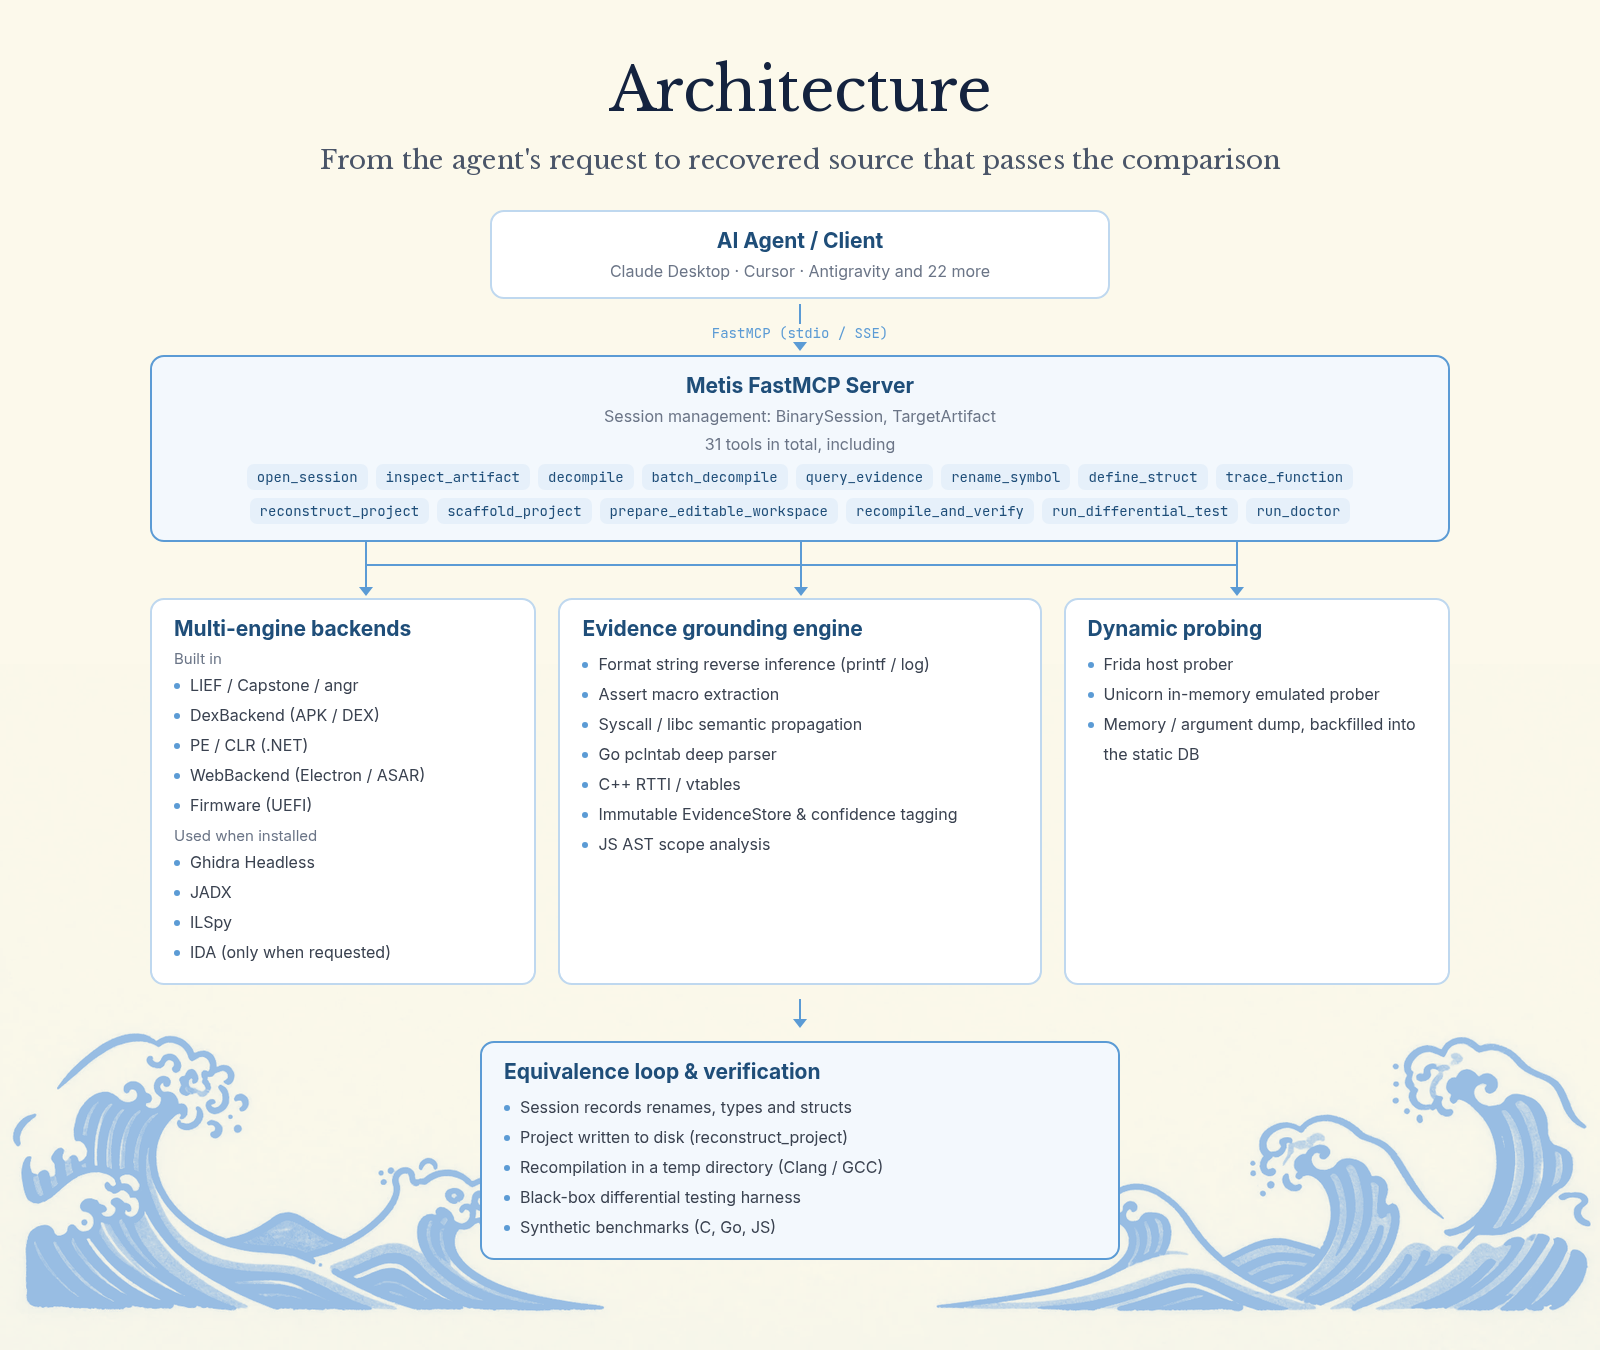
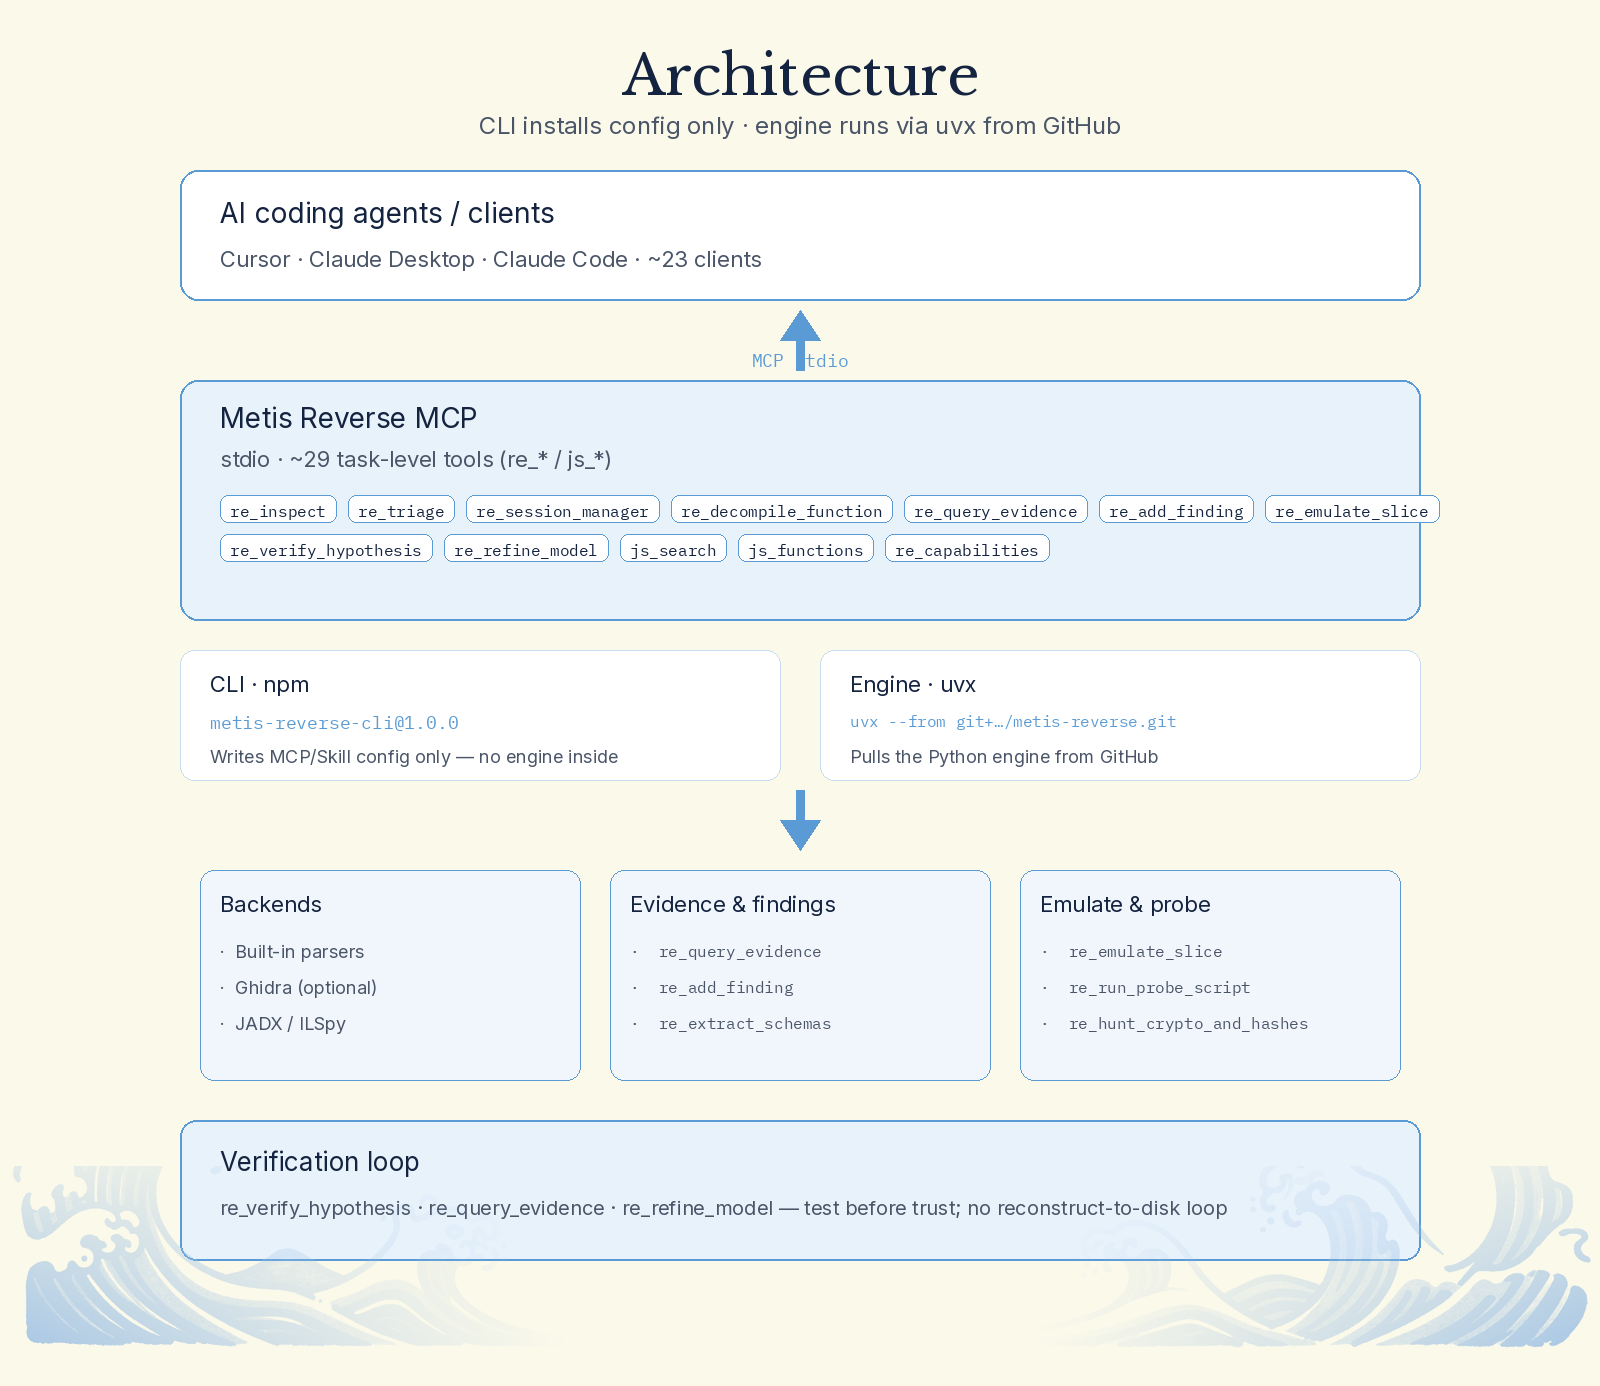
docs: refresh README images for MCP v1.0.0 tool surface
Replace stale reconstruct/FastMCP/31 artwork with CLI≠engine,
uvx GitHub engine, and ~29 re_*/js_* cards; soften demo + tools copy.

diff --git a/README.md b/README.md
@@ -115,7 +115,7 @@ Then point MCP `command` at that environment’s `metis-reverse`, or keep using 
 
 </details>
 
-**2. Try it.** Build the bundled demo (if present), then ask your agent to inspect it with the `re_*` / `js_*` tools.
+**2. Try it.** Build the bundled `demo`, then ask your agent to inspect it with the `re_*` / `js_*` tools.
 
 ```bash
 cd demo && make
@@ -166,7 +166,7 @@ cd demo && make
 
 <p align="center"><img src="docs/images/readme/en/sections/tools.png" alt="MCP Tools" width="100%"></p>
 
-**About 29 MCP tools** in the v1.0.0 engine (handlers under `re_*` and `js_*`). Grouped for reading — not a fake “9 tools” summary.
+**About 29 MCP tools** in the v1.0.0 engine (handlers under `re_*` and `js_*`). Grouped by task below.
 
 <details>
 <summary><b>Session · triage · artifacts</b></summary>

diff --git a/README.zh-CN.md b/README.zh-CN.md
@@ -115,7 +115,7 @@ uv pip install -e ".[dev]"
 
 </details>
 
-**2. 试一下。** 若仓库带 demo，先编译，再让 Agent 用 `re_*` / `js_*` 工具去看。
+**2. 试一下。** 进 `demo` 编译，再让 Agent 用 `re_*` / `js_*` 工具去看。
 
 ```bash
 cd demo && make
@@ -166,7 +166,7 @@ cd demo && make
 
 <p align="center"><img src="docs/images/readme/zh/sections/tools.png" alt="MCP 工具" width="100%"></p>
 
-**v1.0.0 引擎约 29 个 MCP 工具**（`re_*` / `js_*` handlers）。下面按组摘要，**不是**「9 大工具」那种缩水说法。
+**v1.0.0 引擎约 29 个 MCP 工具**（`re_*` / `js_*` handlers）。下面按任务分组摘要。
 
 <details>
 <summary><b>会话 · triage · 制品</b></summary>
